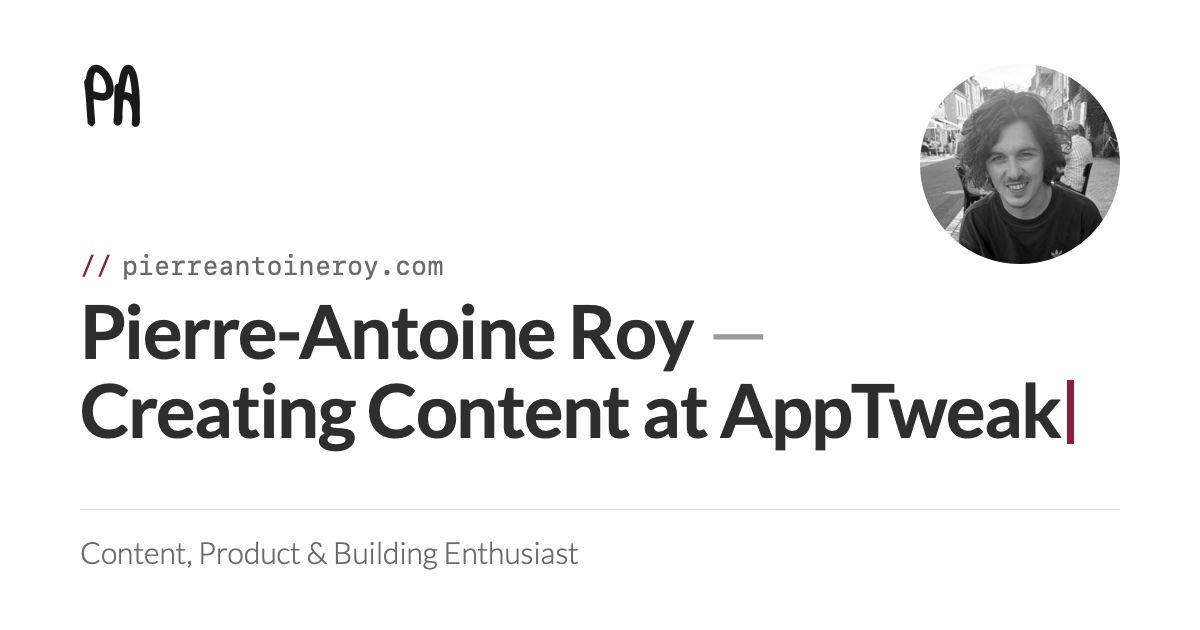
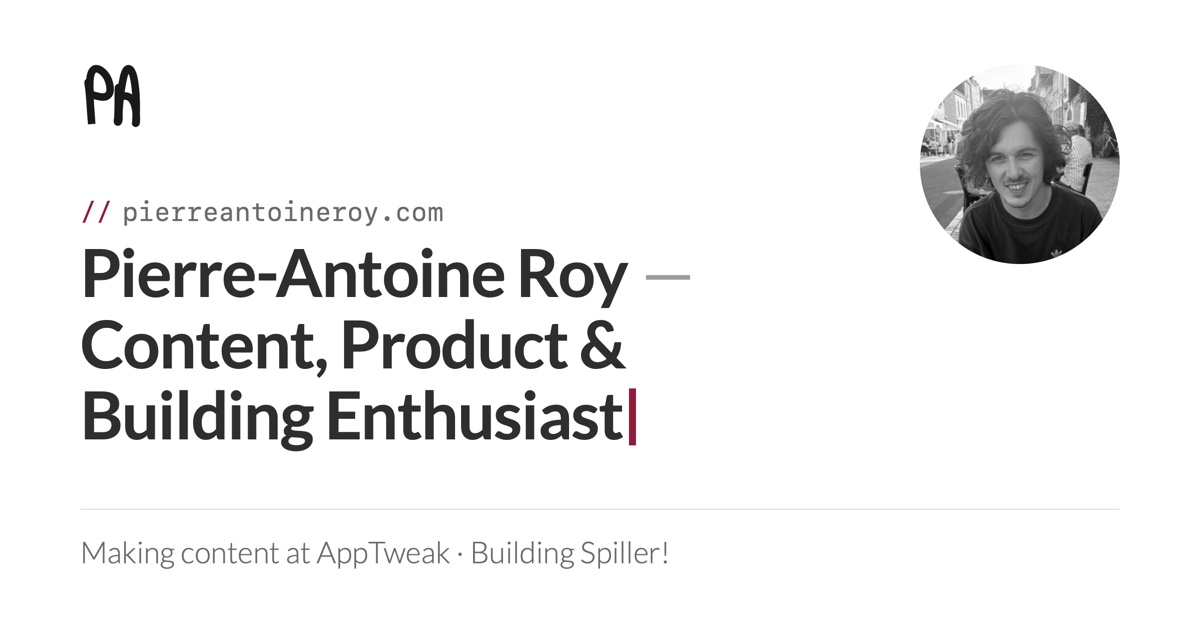
Final texts: new headline, descriptions, share text and image, Spiller copy, llms.txt

diff --git a/index.html b/index.html
@@ -1,12 +1,12 @@
 <!doctype html>
 <html lang="en"><head>
 <meta charset="utf-8"><meta name="viewport" content="width=device-width,initial-scale=1,viewport-fit=cover">
-<title>Pierre-Antoine Roy — Creating Content at AppTweak</title>
-<meta name="description" content="Pierre-Antoine Roy creates content at AppTweak and makes games after hours. Product, growth and content, with a geek streak.">
+<title>Pierre-Antoine Roy — Content, Product &amp; Building Enthusiast</title>
+<meta name="description" content="Pierre-Antoine Roy is a curious geek who learns by building: games, tools and systems. He writes about app marketing at AppTweak and made Spiller!">
 <link rel="canonical" href="https://pierreantoineroy.com/">
 <meta property="og:type" content="profile"><meta property="og:url" content="https://pierreantoineroy.com/">
-<meta property="og:title" content="Pierre-Antoine Roy — Creating Content at AppTweak">
-<meta property="og:description" content="Content at AppTweak by day, games after hours.">
+<meta property="og:title" content="Pierre-Antoine Roy — Content, Product &amp; Building Enthusiast">
+<meta property="og:description" content="Hi, I&#39;m Pierre-Antoine! Right now, I&#39;m making content at AppTweak and I&#39;m building the mobile game Spiller!">
 <meta property="og:image" content="https://pierreantoineroy.com/assets/og.jpg"><meta property="og:image:width" content="1200"><meta property="og:image:height" content="630">
 <meta name="twitter:card" content="summary_large_image">
 <meta name="color-scheme" content="light dark">
@@ -26,7 +26,7 @@ try{if(!sessionStorage.getItem('introSeen')&&!matchMedia('(prefers-reduced-motio
    "@type": "ProfilePage",
    "@id": "https://pierreantoineroy.com/#page",
    "url": "https://pierreantoineroy.com/",
-   "name": "Pierre-Antoine Roy — Creating Content at AppTweak",
+   "name": "Pierre-Antoine Roy — Content, Product & Building Enthusiast",
    "inLanguage": "en",
    "dateModified": "2026-11-14",
    "mainEntity": {
@@ -41,7 +41,7 @@ try{if(!sessionStorage.getItem('introSeen')&&!matchMedia('(prefers-reduced-motio
    "image": "https://pierreantoineroy.com/assets/pa.jpg",
    "email": "mailto:hello@pierreantoineroy.com",
    "jobTitle": "Content, Product & Building Enthusiast",
-   "description": "Creates data-driven content on App Store Optimization, app marketing and mobile growth at AppTweak, and makes games after hours.",
+   "description": "Curious geek who builds games, tools and systems. Writes about app marketing at AppTweak. Made Spiller!, a one-tap mobile game.",
    "worksFor": {
     "@type": "Organization",
     "name": "AppTweak",
@@ -132,9 +132,8 @@ try{if(!sessionStorage.getItem('introSeen')&&!matchMedia('(prefers-reduced-motio
 <main>
 <section class="hero">
   <img class="photo" src="/assets/pa.jpg" width="120" height="120" alt="Pierre-Antoine Roy" title="Say cheese">
-  <h1>Pierre-Antoine Roy <span class="dash">—</span><br class="wide"> Creating Content at AppTweak<span class="caret" aria-hidden="true"></span></h1>
-  <!-- DRAFT: description to rewrite in PA's own voice. -->
-  <p class="lede">I'm a <strong>geek since birth</strong> who loves turning complicated things into clear ones. By day, I write about app marketing at <strong>AppTweak</strong>. After hours, I make games: <strong>Spiller!</strong>, my first one, is out on iPhone. I've worn product design, growth and marketing hats, I speak French, English and Spanish, and I still believe the best work comes from building with people, with clear plans and solutions built to last.</p>
+  <h1>Pierre-Antoine Roy <span class="dash">—</span><br class="wide"> Content, Product &amp; Building Enthusiast<span class="caret" aria-hidden="true"></span></h1>
+  <p class="lede">I like taking things apart to see how they work, then building my own. <strong>Games, tools, systems.</strong> I write about app marketing at <strong>AppTweak</strong>, and I shipped <strong>Spiller!</strong>, a one-tap game to beat your friends at.</p>
   <div class="links">
     <a class="btn" href="https://www.linkedin.com/in/pierre-antoine-roy" target="_blank" rel="noopener me"><svg class="ico" viewBox="0 0 24 24" aria-hidden="true"><use href="#i-linkedin"/></svg>LinkedIn</a>
     <a class="btn" href="https://bsky.app/profile/pierreantoineroy.com" target="_blank" rel="noopener me"><svg class="ico" viewBox="0 0 24 24" aria-hidden="true"><use href="#i-bluesky"/></svg>Bluesky</a>
@@ -151,8 +150,7 @@ try{if(!sessionStorage.getItem('introSeen')&&!matchMedia('(prefers-reduced-motio
       <div class="meta"><span class="dot" aria-hidden="true"></span>Full Time | Since Mar 2026</div>
       <h3>Creating Content <a class="at" href="https://www.linkedin.com/company/apptweak-com/" target="_blank" rel="noopener">@AppTweak</a></h3>
       <p>Data-driven content on App Store Optimization, app marketing and mobile growth, from the blog to LinkedIn, newsletters and video.</p>
-      <!-- DRAFT (PA not sure it stays): the content automation system. Delete this <p> to remove it. -->
-      <p data-draft>I built a <strong>numbers-first automation system for social media</strong>: post performance comes straight from the LinkedIn API, research and drafts start from it, so the team can spend its time on creativity instead of data digging.</p>
+      <p>I recently built a <strong>numbers-first automation system for social media</strong>: post performance comes straight from the LinkedIn API, and research and drafts start from it, so the team can focus on being creative instead of digging into the data again and again, less effectively.</p>
       <div class="links"><a class="btn" href="https://www.apptweak.com" target="_blank" rel="noopener">apptweak.com ↗</a></div>
     </article>
     <article class="card" data-now="Spiller!">

diff --git a/tools/og/og.html b/tools/og/og.html
@@ -6,18 +6,18 @@ body{font-family:Lato,sans-serif;color:#2e2e2e;position:relative}
 .logo{position:absolute;left:80px;top:64px;width:64px;height:64px}
 .logo path{stroke:#191919}
 .photo{position:absolute;right:80px;top:64px;width:200px;height:200px;border-radius:50%;object-fit:cover;filter:grayscale(1)}
-.eyebrow{position:absolute;left:80px;top:250px;font:400 26px ui-monospace,Menlo,monospace;color:#6a6a6a}
+.eyebrow{position:absolute;left:80px;top:196px;font:400 26px ui-monospace,Menlo,monospace;color:#6a6a6a}
 .eyebrow b{color:#8f1d3b;font-weight:400;margin-right:10px}
-h1{position:absolute;left:80px;top:290px;margin:0;font-weight:700;font-size:74px;line-height:1.08;letter-spacing:-1.5px}
+h1{position:absolute;left:80px;top:236px;margin:0;font-weight:700;font-size:66px;line-height:1.08;letter-spacing:-1.3px}
 h1 .dash{color:#9b9b9b;font-weight:400}
-.caret{display:inline-block;width:7px;height:64px;background:#8f1d3b;vertical-align:-6px;margin-left:6px}
+.caret{display:inline-block;width:7px;height:57px;background:#8f1d3b;vertical-align:-6px;margin-left:6px}
 .sub{position:absolute;left:80px;bottom:60px;font-weight:300;font-size:30px;color:#6a6a6a}
 .rule{position:absolute;left:80px;right:80px;bottom:120px;border-top:1px solid #dcdcdc}
 </style></head><body>
 <svg class="logo" viewBox="70 80 340 340" fill="none"><g stroke-width="40" stroke-linecap="round" stroke-linejoin="round"><path d="M112.083 176.337C112.681 191.601 116.037 206.991 117.622 222.153C119.995 244.846 121.692 267.597 123.318 290.36M123.318 290.36C123.993 299.814 124.656 309.27 125.35 318.725C127.076 342.252 132.243 412.835 130.478 389.311C128.214 359.123 125.62 329.081 123.777 298.818C123.605 295.997 123.453 293.178 123.318 290.36ZM123.318 290.36C122.304 269.214 122.226 248.128 121.657 226.94C121.059 204.666 119.908 182.466 121.931 160.229C124.1 136.379 131.925 99.8128 160.362 104.459C174.673 106.798 189.558 119.615 199.273 130.825C215.574 149.633 224.461 173.142 228.131 198.675C230.491 215.104 229.765 234.177 217.121 245.48C204.526 256.738 187.989 255.682 173.013 252.774C160.379 250.321 147.799 246.721 135.334 243.352C131.087 242.204 128.148 241.046 131.778 246.087"/><path d="M273.422 204.593C271.032 260.279 273.562 316.203 269.499 371.838C269.282 374.809 265.996 384.643 269.499 387.459C270.944 388.62 274.246 381.458 274.28 381.296C277.231 367.153 274.946 351.919 275.629 337.658C278.645 274.63 286.466 211.846 300.394 149.275C303.863 133.686 314.631 94.6581 333.005 106.138C338.636 109.656 341.833 115.647 344.039 120.039C352.406 136.697 355.269 154.499 358.138 171.703C367.512 227.92 368.621 285.198 367.325 341.937M367.325 341.937C367.05 353.988 366.666 366.014 366.229 378C366.067 382.471 366.425 387.014 365.616 391.471C365.464 392.308 363.928 394.446 365.126 393.979C368.199 392.782 367.747 382.379 367.823 381.296C368.237 375.39 368.775 360.105 367.325 341.937ZM367.325 341.937C363.753 297.205 348.122 235 288.869 252.316"/></g></svg>
 <img class="photo" src="../../assets/pa.jpg">
 <div class="eyebrow"><b>//</b>pierreantoineroy.com</div>
-<h1>Pierre-Antoine Roy <span class="dash">—</span><br>Creating Content at AppTweak<span class="caret"></span></h1>
+<h1>Pierre-Antoine Roy <span class="dash">—</span><br>Content, Product &amp;<br>Building Enthusiast<span class="caret"></span></h1>
 <div class="rule"></div>
-<div class="sub">Content, Product &amp; Building Enthusiast</div>
+<div class="sub">Making content at AppTweak · Building Spiller!</div>
 </body></html>

diff --git a/spiller/index.html b/spiller/index.html
@@ -2,12 +2,12 @@
 <html lang="en"><head>
 <meta charset="utf-8"><meta name="viewport" content="width=device-width,initial-scale=1,viewport-fit=cover">
 <title>Spiller! — Pour &amp; Stack, a one-tap game</title>
-<meta name="description" content="Spiller! is a satisfying one-tap game about timing: hold to pour, release right on the line. Free on iPhone.">
+<meta name="description" content="A one-tap game about timing. Pour, stop on the line, stack higher than your friends. Free on the App Store.">
 <link rel="canonical" href="https://pierreantoineroy.com/spiller/">
 <!-- iPhone Safari shows its own "Get / Open" banner for the app -->
 <meta name="apple-itunes-app" content="app-id=6828435267">
 <meta property="og:type" content="website"><meta property="og:url" content="https://pierreantoineroy.com/spiller/">
-<meta property="og:title" content="Spiller! — Pour &amp; Stack"><meta property="og:description" content="Hold to pour. Release on the line. Free on iPhone.">
+<meta property="og:title" content="Spiller! — Pour &amp; Stack"><meta property="og:description" content="Hold to pour. Release on the line. Beat your friends.">
 <meta property="og:image" content="https://pierreantoineroy.com/spiller/media/og.jpg"><meta property="og:image:width" content="1200"><meta property="og:image:height" content="630">
 <meta name="twitter:card" content="summary_large_image">
 <meta name="color-scheme" content="light dark">
@@ -30,7 +30,7 @@
     "https://apps.apple.com/app/id6828435267",
     "https://www.instagram.com/spiller_game/"
    ],
-   "description": "A satisfying one-tap game about timing: hold to pour, release right on the line.",
+   "description": "A one-tap hyper-casual game: hold to pour, release on the line, and compete with your friends.",
    "applicationCategory": "GameApplication",
    "genre": "Casual",
    "operatingSystem": "iOS",
@@ -93,7 +93,7 @@
     <img class="app-icon" src="/spiller/media/icon.png" width="96" height="96" alt="Spiller! app icon">
     <h1>Spiller!<span class="caret" aria-hidden="true"></span></h1>
     <p class="app-sub">Pour &amp; Stack</p>
-    <p class="lede">Hold to pour. Release on the line. A satisfying one-tap game about timing: stop right on the glowing ring for a <strong>Perfect</strong>, grow your glass, and see how high you can stack.</p>
+    <p class="lede">Hold to pour. Release right on the line. Hit it and your glass grows; miss and it shrinks. Then send your score to your friends and watch them try.</p>
     <div class="stores">
       <a class="store-badge" href="https://apps.apple.com/app/id6828435267" target="_blank" rel="noopener"><img src="/assets/badges/app-store-black.svg" width="144" height="48" alt="Download on the App Store"></a>
       <span class="soon">Coming soon to Google Play</span>

diff --git a/tools/og/snap.swift b/tools/og/snap.swift
@@ -2,9 +2,10 @@ import AppKit
 import WebKit
 let dir = URL(fileURLWithPath: CommandLine.arguments[1])
 let out = CommandLine.arguments[2]
+// Read access goes to the repo root, so the page can load assets/pa.jpg.
 final class Shot: NSObject, WKNavigationDelegate {
   let wv = WKWebView(frame: NSRect(x: 0, y: 0, width: 1200, height: 630))
-  func start() { wv.navigationDelegate = self; wv.loadFileURL(dir.appendingPathComponent("og.html"), allowingReadAccessTo: dir) }
+  func start() { wv.navigationDelegate = self; wv.loadFileURL(dir.appendingPathComponent("og.html"), allowingReadAccessTo: dir.deletingLastPathComponent().deletingLastPathComponent()) }
   func webView(_ w: WKWebView, didFinish n: WKNavigation!) {
     DispatchQueue.main.asyncAfter(deadline: .now() + 2.5) {
       let c = WKSnapshotConfiguration(); c.rect = CGRect(x: 0, y: 0, width: 1200, height: 630); c.snapshotWidth = 1200

diff --git a/README.md b/README.md
@@ -18,8 +18,8 @@ Personal site of Pierre-Antoine Roy, served by GitHub Pages (domain in `CNAME`).
 
 The JSON-LD block in the `<head>` of `index.html` describes me for search engines: keep it in sync with the page.
 
-Share image of the home page: `assets/og.jpg`, made from `tools/og/og.html`. To redo it, edit the HTML, then run `swift tools/og/snap.swift tools/og assets/og.png` and convert to JPG.
+Share image of the home page: `assets/og.jpg`, made from `tools/og/og.html`. To redo it, edit the HTML, then run `swift tools/og/snap.swift "$PWD/tools/og" og.png` (it renders at 2x), and `sips -z 630 1200 og.png` before saving it as `assets/og.jpg`.
 
-Drafts to rewrite are marked `DRAFT` in `index.html`. The hidden `#writing` section is ready for the future Substack feed.
+The hidden `#writing` section is ready for the future Substack feed.
 
 Edit, commit, push to `main`: the site updates in about a minute.
